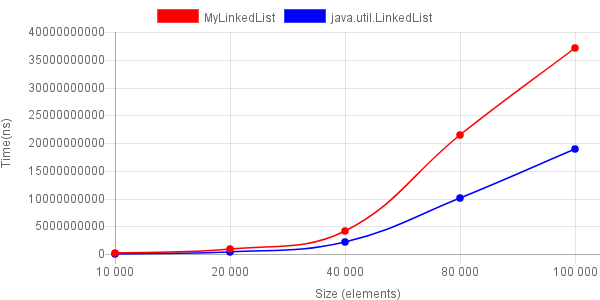
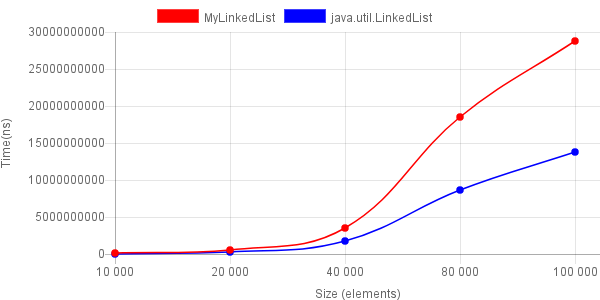
PerformanceTester.java: 1. Restructurized and added warm up; 2. Updated charts for performance comparison report; 3. Added data-file that was used to create charts.

diff --git a/src/main/java/com/netcracker/adlitsov/homework4/part1/PerformanceTester.java b/src/main/java/com/netcracker/adlitsov/homework4/part1/PerformanceTester.java
@@ -5,106 +5,196 @@ import java.util.List;
 import java.util.Random;
 import java.util.Scanner;
 
+import static com.netcracker.adlitsov.homework4.part2.ListsPerformanceTester.randAlphabeticStr;
+
 class PerformanceTester {
-    private static ILinkedList<Integer> myList = new MyLinkedList<>();
-    private static List<Integer> utilList = new LinkedList<>();
-    private static Random rnd = new Random();
-    private static String formatLine = "%-30s %,15d ns\n";
+    private static final int MAX_STR_LENGTH = 100;
+    private static final String FORMAT_LINE = "%-30s %15d ns\n";
+    private static final int WARM_RUNS = 50;
+    private static final int WARM_DATA_SIZE = 10_000;
 
+    private ILinkedList<String> myList = new MyLinkedList<>();
+    private List<String> utilList = new LinkedList<>();
+    private Random rnd;
+    private String[] source;
 
-    private static void showRunNanoTime(String listType, Runnable r) {
+    private boolean warmUp = false;
+
+    private void showRunNanoTime(Class listClass, Runnable r) {
         long startTime = System.nanoTime();
         r.run();
         long duration = System.nanoTime() - startTime;
-        System.out.printf(formatLine, listType + " time:", duration);
-    }
-
-
-    private static void testAppendTime(int size) {
-        System.out.println("--- Append performance comparison ---");
-        showRunNanoTime("MyLinkedList", () -> {
-            for (int i = 0; i < size; i++) {
-                myList.add(rnd.nextInt());
-            }
-        });
-        showRunNanoTime("util.LinkedList", () -> {
-            for (int i = 0; i < size; i++) {
-                utilList.add(rnd.nextInt());
-            }
-        });
-    }
-
-    private static void testAddTime(int size) {
-        System.out.println("--- Add at random index performance comparison ---");
-        showRunNanoTime("MyLinkedList", () -> {
-            for (int i = 0; i < size; i++) {
-                myList.add(rnd.nextInt(myList.size() + 1), rnd.nextInt());
-            }
-        });
-        showRunNanoTime("util.LinkedList", () -> {
-            for (int i = 0; i < size; i++) {
-                utilList.add(rnd.nextInt(utilList.size() + 1), rnd.nextInt());
-            }
-        });
-    }
-
-    private static void getListsRandomElements(int searchSize, Integer[] myListElements, Integer[] utilListElements) {
-        for (int i = 0; i < searchSize; i++) {
-            myListElements[i] = myList.get(rnd.nextInt(myList.size()));
-            utilListElements[i] = utilList.get(rnd.nextInt(utilList.size()));
+        if (!warmUp) {
+            System.out.printf(FORMAT_LINE, listClass.getSimpleName() + " time:", duration);
         }
     }
 
-    private static void testGetTime(int size) {
-        System.out.println("--- Get at random index (" + size + " times) performance comparison ---");
-        showRunNanoTime("MyLinkedList", () -> {
+
+    private void testAppendTime(int size) {
+        if (!warmUp) {
+            System.out.println("--- Append performance comparison ---");
+        }
+        showRunNanoTime(myList.getClass(), () -> {
             for (int i = 0; i < size; i++) {
-                myList.get(rnd.nextInt(myList.size()));
+                myList.add(source[i]);
             }
         });
-        showRunNanoTime("util.LinkedList", () -> {
+        showRunNanoTime(utilList.getClass(), () -> {
             for (int i = 0; i < size; i++) {
-                utilList.get(rnd.nextInt(utilList.size()));
+                utilList.add(source[i]);
             }
         });
     }
 
-    private static void testSearchTime(int size) {
+    private void testAddTime(int size) {
+        if (!warmUp) {
+            System.out.println("--- Add at random index performance comparison ---");
+        }
+        int[] indexes = generateRandomIndexesForAdd(size);
+        showRunNanoTime(myList.getClass(), () -> {
+            for (int i = 0; i < size; i++) {
+                myList.add(indexes[i], source[i]);
+            }
+        });
+        showRunNanoTime(utilList.getClass(), () -> {
+            for (int i = 0; i < size; i++) {
+                utilList.add(indexes[i], source[i]);
+            }
+        });
+    }
+
+    private void testGetTime(int size) {
+        if (!warmUp) {
+            System.out.println("--- Get at random index (" + size + " times) performance comparison ---");
+        }
+        int[] indexes = generateRandomIndexes(size);
+        showRunNanoTime(myList.getClass(), () -> {
+            for (int i = 0; i < size; i++) {
+                myList.get(indexes[i]);
+            }
+        });
+        showRunNanoTime(utilList.getClass(), () -> {
+            for (int i = 0; i < size; i++) {
+                utilList.get(indexes[i]);
+            }
+        });
+    }
+
+    private void testSearchTime(int size) {
         int searchSize = size / 10;
-        System.out.println("--- Search " + searchSize + "(10%) random items performance comparison ---");
-        Integer[] myListItems = new Integer[searchSize];
-        Integer[] utilListItems = new Integer[searchSize];
-        getListsRandomElements(searchSize, myListItems, utilListItems);
-
-        showRunNanoTime("MyLinkedList", () -> {
+        if (!warmUp) {
+            System.out.println("--- Search " + searchSize + "(10%) random items performance comparison ---");
+        }
+        String[] searchElements = getRandomElements(searchSize);
+        showRunNanoTime(myList.getClass(), () -> {
             for (int i = 0; i < searchSize; i++) {
-                myList.indexOf(myListItems[i]);
+                myList.indexOf(searchElements[i]);
             }
         });
-        showRunNanoTime("util.LinkedList", () -> {
+        showRunNanoTime(utilList.getClass(), () -> {
             for (int i = 0; i < searchSize; i++) {
-                utilList.indexOf(utilListItems[i]);
+                utilList.indexOf(searchElements[i]);
             }
         });
     }
 
-    private static void testRemoveTime(int size) {
-        System.out.println("--- Remove at random index (all elements are removed) performance comparison ---");
-        showRunNanoTime("MyLinkedList", () -> {
+    private void testRemoveTime(int size) {
+        if (!warmUp) {
+            System.out.println("--- Remove (almost all) elements at random index performance comparison ---");
+        }
+        int[] indexes = generateRandomIndexesForRemove(size);
+        showRunNanoTime(myList.getClass(), () -> {
             for (int i = 0; i < size; i++) {
-                myList.remove(rnd.nextInt(myList.size()));
+                myList.remove(indexes[i]);
             }
         });
-        showRunNanoTime("util.LinkedList", () -> {
+        showRunNanoTime(utilList.getClass(), () -> {
             for (int i = 0; i < size; i++) {
-                utilList.remove(rnd.nextInt(utilList.size()));
+                utilList.remove(indexes[i]);
             }
         });
     }
 
-    private static void clearLists() {
+    private int[] generateRandomIndexesForAdd(int size) {
+        int[] indexes = new int[size];
+        for (int i = 0; i < size; i++) {
+            indexes[i] = rnd.nextInt(i + 1);
+        }
+        return indexes;
+    }
+
+    private int[] generateRandomIndexes(int size) {
+        int[] indexes = new int[size];
+        for (int i = 0; i < size; i++) {
+            indexes[i] = rnd.nextInt(source.length);
+        }
+        return indexes;
+    }
+
+
+    private int[] generateRandomIndexesForRemove(int size) {
+        int[] indexes = new int[size];
+        for (int i = 0; i < size; i++) {
+            indexes[i] = rnd.nextInt(source.length - i);
+        }
+        return indexes;
+    }
+
+    private String[] getRandomElements(int size) {
+        String[] elements = new String[size];
+        for (int i = 0; i < size; i++) {
+            elements[i] = source[rnd.nextInt(source.length)];
+        }
+        return elements;
+    }
+
+    private void generateSource(int size) {
+        source = new String[size];
+        for (int i = 0; i < size; i++) {
+            source[i] = randAlphabeticStr(MAX_STR_LENGTH, rnd);
+        }
+    }
+
+    private void clearLists() {
         myList.clear();
         utilList.clear();
+    }
+
+    private void createLists() {
+        myList = new MyLinkedList<>();
+        utilList = new LinkedList<>();
+    }
+
+    private void recreateLists() {
+        clearLists();
+        createLists();
+    }
+
+    public void test(int size) {
+        rnd = new Random();
+        createLists();
+        generateSource(size);
+
+        testAddTime(size);
+        recreateLists();
+        testAppendTime(size);
+
+        testGetTime(size);
+        testSearchTime(size);
+        testRemoveTime(size);
+
+        clearLists();
+        System.gc();
+    }
+
+    public void warmUp(int runsCount, int dataSize) {
+        System.out.println("*** Warming up with " + runsCount + " runs where data size is " + dataSize + " ***");
+        warmUp = true;
+        for (int i = 0; i < runsCount; i++) {
+            System.out.println("* Warming up, run #" + (i + 1) + "*");
+            test(dataSize);
+        }
+        warmUp = false;
     }
 
     public static void main(String[] args) {
@@ -112,11 +202,9 @@ class PerformanceTester {
         Scanner sc = new Scanner(System.in);
         int size = sc.nextInt();
 
-        testAppendTime(size);
-        clearLists();
-        testAddTime(size);
-        testGetTime(size);
-        testSearchTime(size);
-        testRemoveTime(size);
+        PerformanceTester pf = new PerformanceTester();
+        pf.warmUp(WARM_RUNS, WARM_DATA_SIZE);
+        System.out.println("\n\n------ Benchmark begins ------");
+        pf.test(size);
     }
 }
